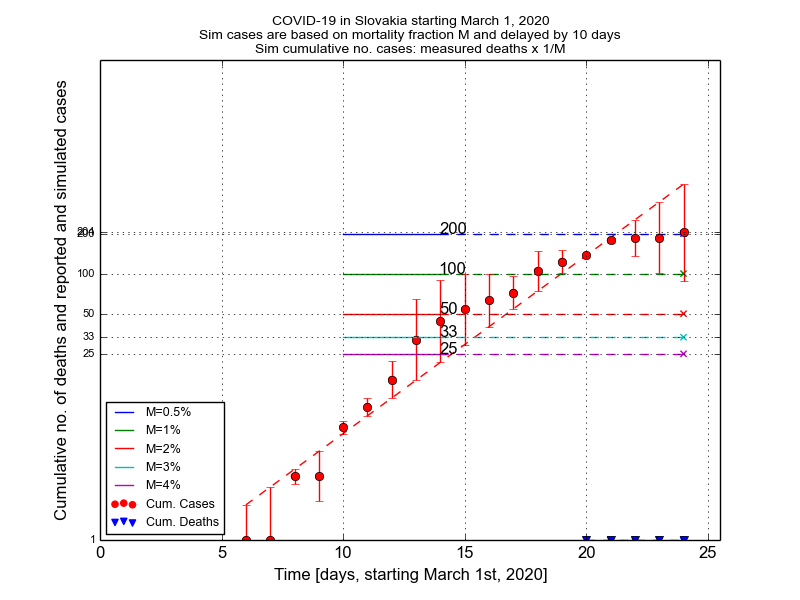
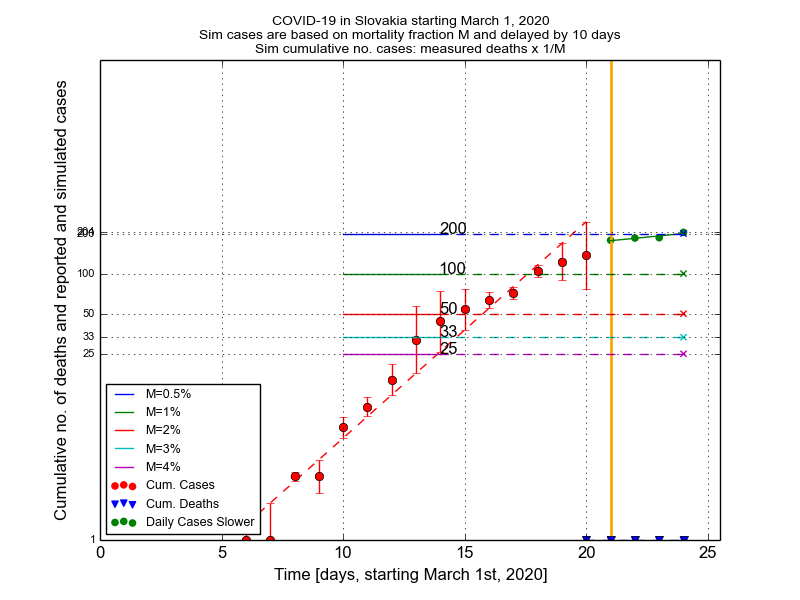
Slovakia plateauing?

diff --git a/cov_lin_models_refactored.py b/cov_lin_models_refactored.py
@@ -41,6 +41,7 @@ SLOWDOWN = {"Belgium": 13,
             "Netherlands": 13,
             "Norway": 14,
             "Poland": 16,
+            "Slovakia": 21,
             "Sweden": 13}
 
 # countries that need their data to be summed;
